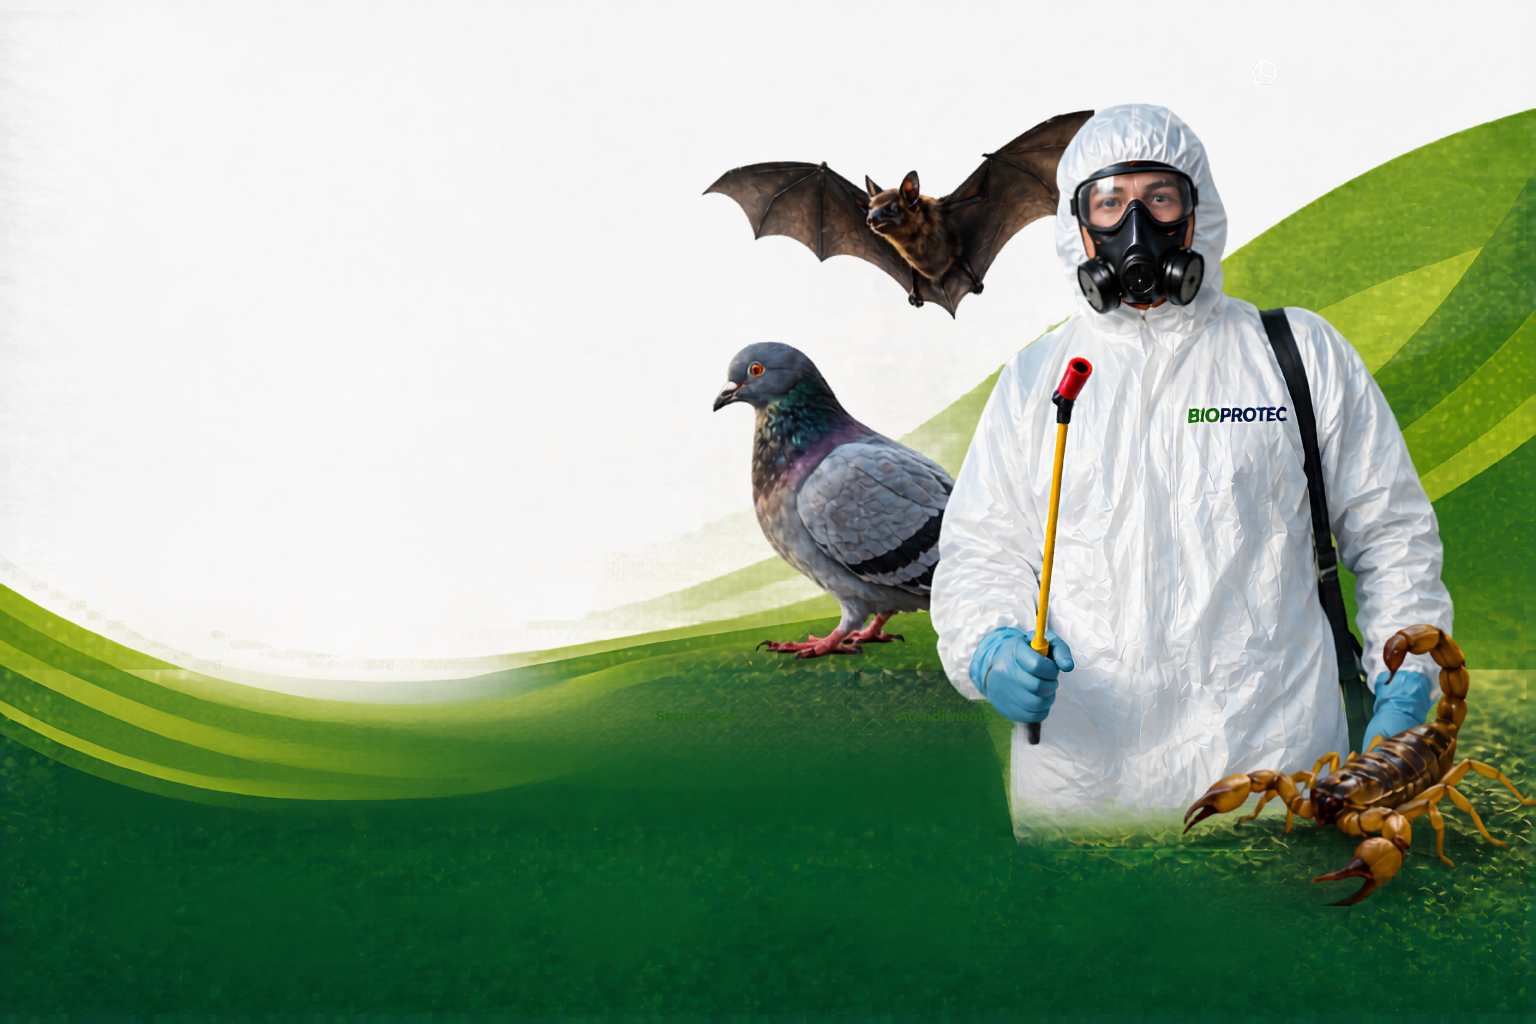
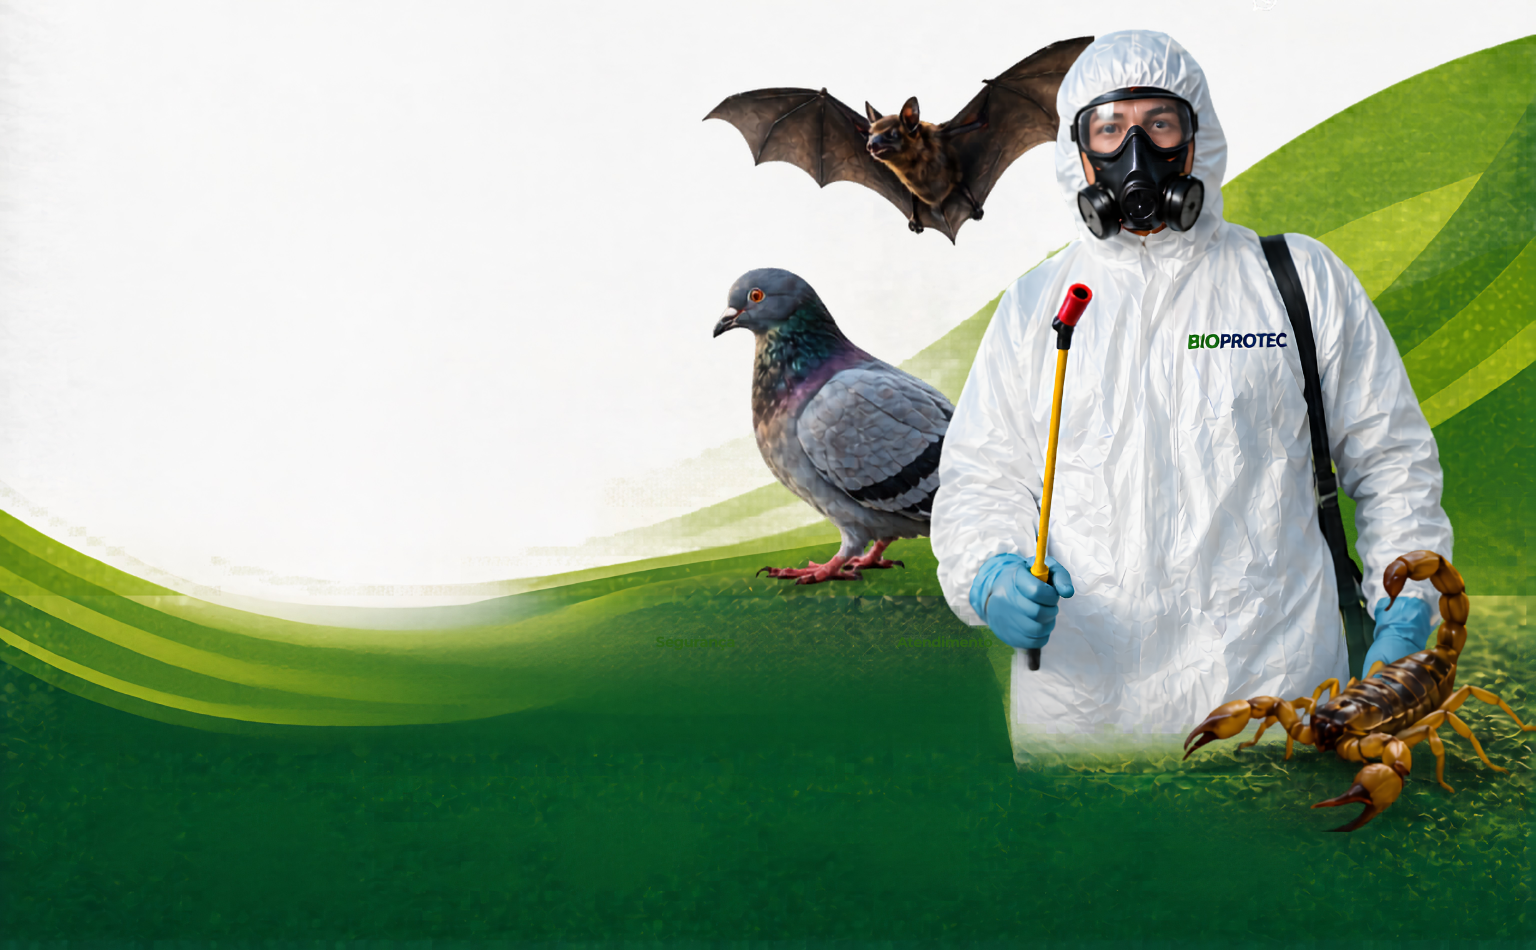
ajustes visuais basicos

Changed region(s): [[0.0, 0.0305, 1.0, 0.9158]]

diff --git a/index.css b/index.css
@@ -177,7 +177,7 @@
     .banner{
         width: 100vw;
         background-image: url(/img/background2.png);
-        background-position: center;
+        background-position: top;
         background-repeat: no-repeat;
         background-size: cover;
         padding: 20px 8%;
@@ -202,6 +202,10 @@
         font-size: 50px;
         font-weight: bold;
         color: #428615;
+    }
+
+    .banner-text p{
+      margin: 0px;
     }
 
     /* BENEFITS */
